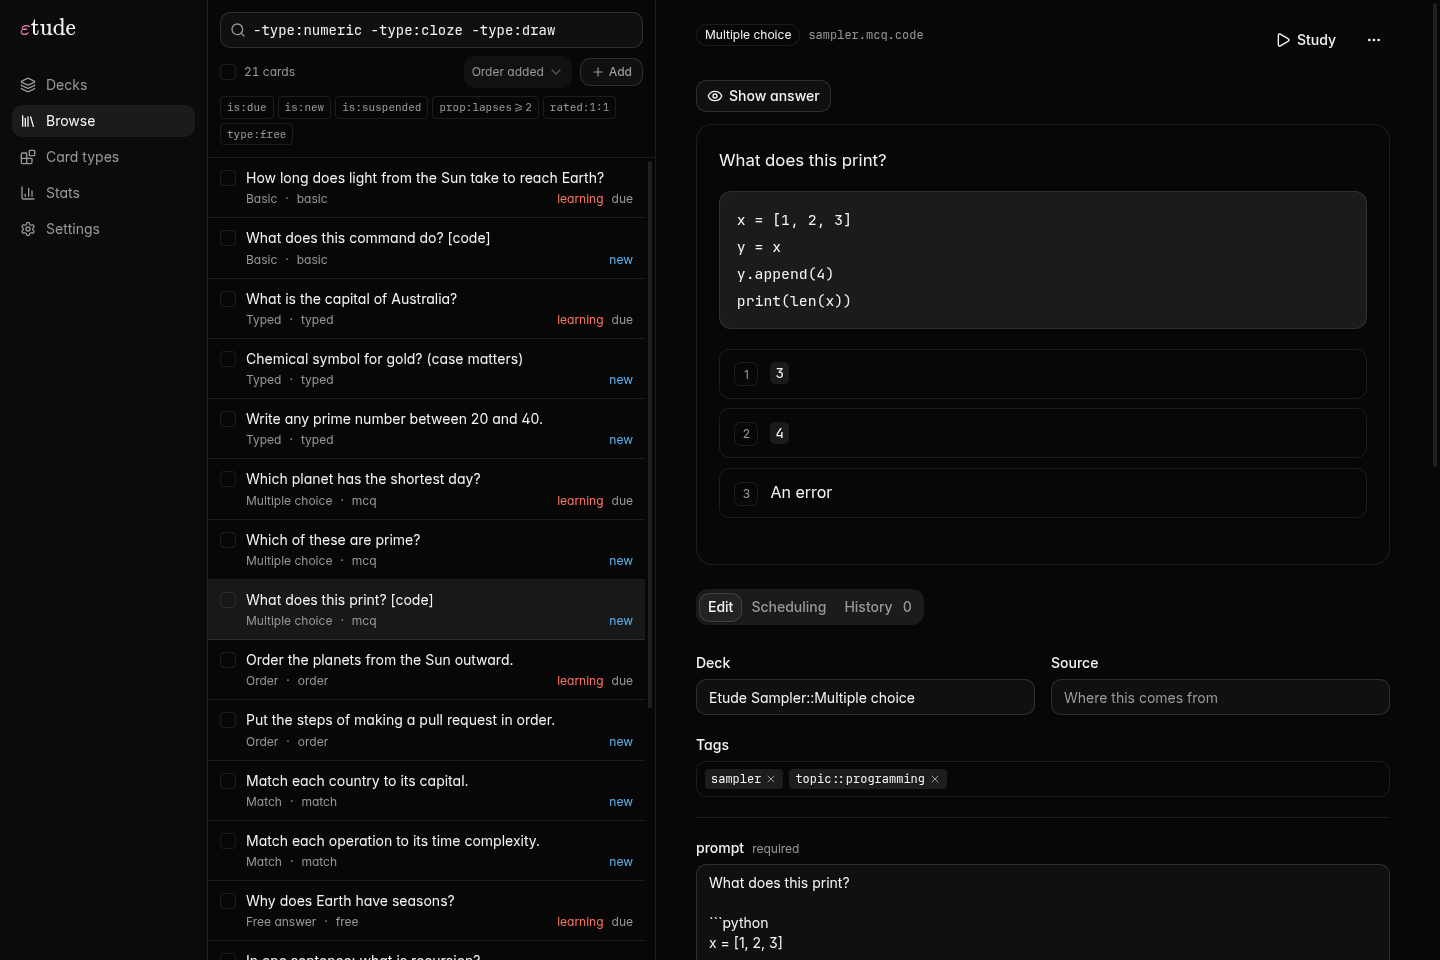
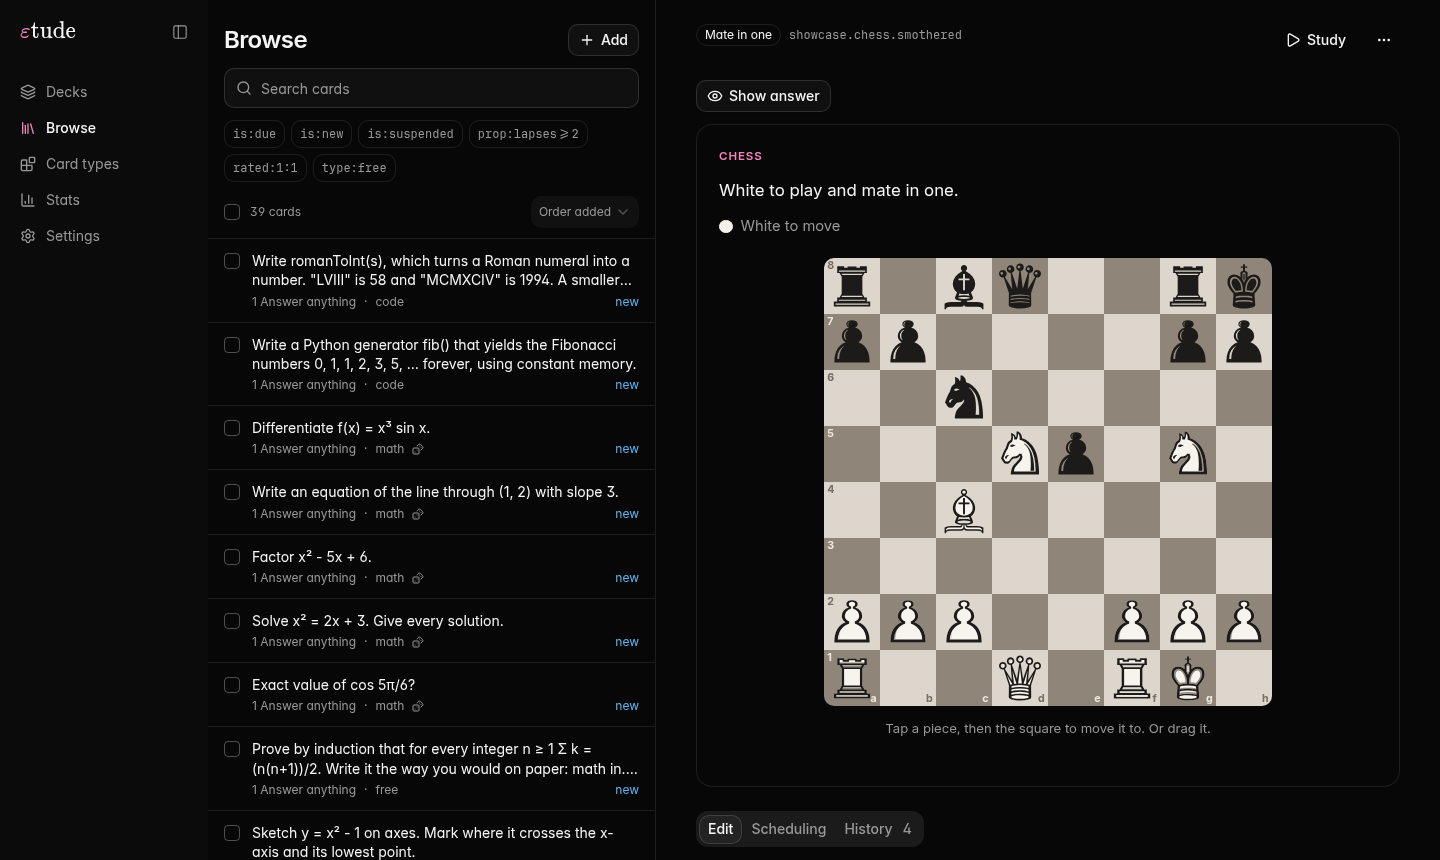
docs: new screenshots

diff --git a/README.md b/README.md
@@ -6,9 +6,9 @@ Etude is a self-hosted spaced-repetition app where every card type is a small pr
 
 ![Decks](docs/screenshots/decks.png)
 
-![A free-answer card after AI grading, with feedback](docs/screenshots/study-feedback.png)
+![A proof by induction graded by AI, with feedback](docs/screenshots/study-feedback.png)
 
-![Browse: search, preview and edit](docs/screenshots/browse.png)
+![Browse: search, preview and edit, with a chess card open](docs/screenshots/browse.png)
 
 ## Why another flashcard app
 
